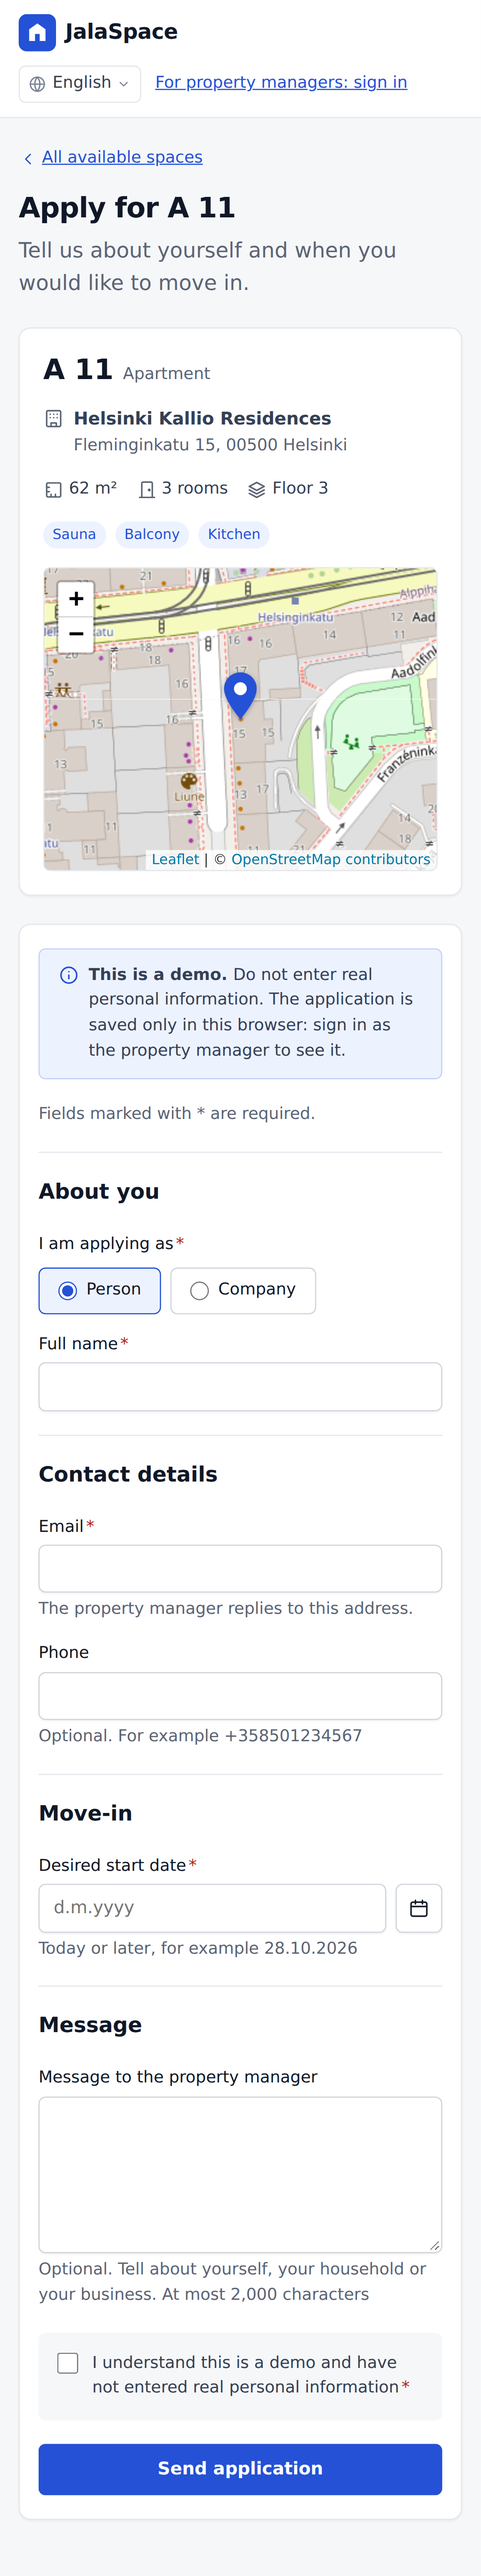
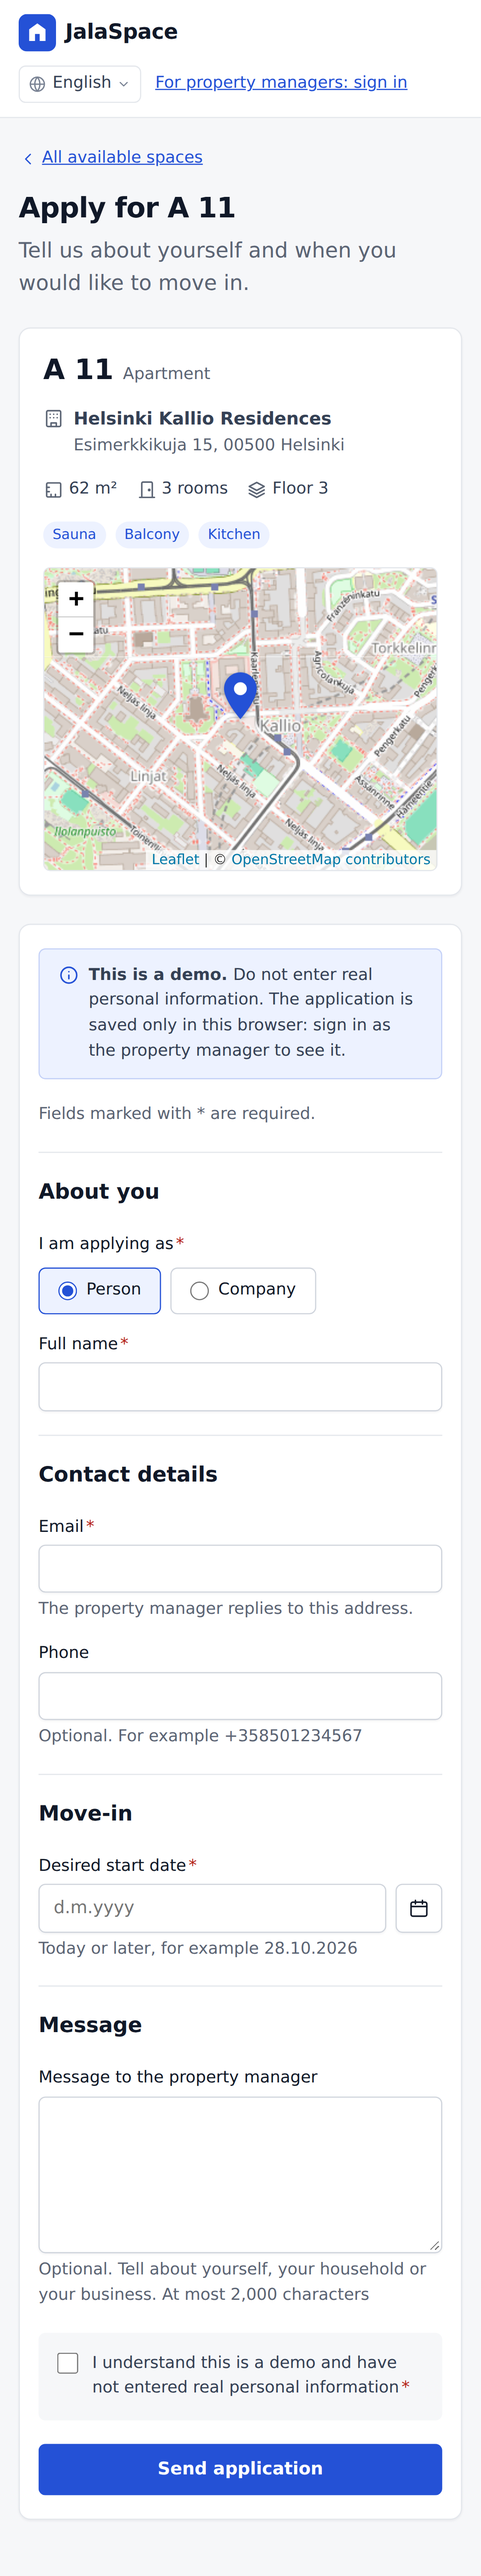
docs(data): state that demo data is fictional and retake screenshots

Changed region(s): [[0.0915, 0.2179, 0.915, 0.3424], [0.488, 0.1556, 0.5795, 0.1868], [0.6405, 0.1556, 0.7015, 0.1868]]

diff --git a/backend/README.md b/backend/README.md
@@ -179,7 +179,7 @@ Editable fields and rules (the same as in the app):
 ```bash
 curl -X POST http://localhost:3000/api/properties \
   -H 'content-type: application/json' \
-  -d '{"name":"Joensuu Center","type":"mixed_use","address":"Siltakatu 12","postalCode":"80100","city":"Joensuu"}'
+  -d '{"name":"Joensuu Center","type":"mixed_use","address":"Esimerkkikatu 12","postalCode":"80100","city":"Joensuu"}'
 ```
 
 A property that still has spaces or maintenance tasks cannot be deleted, so no data is left pointing to it:
@@ -258,7 +258,7 @@ Editable fields and rules (the same as in the app):
 ```bash
 curl -X POST http://localhost:3000/api/tenants \
   -H 'content-type: application/json' \
-  -d '{"type":"company","name":"Lakeside Bakery Oy","contactPerson":"Maija Salo","email":"info@lakeside-bakery.example"}'
+  -d '{"type":"company","name":"Bakery Esimerkki Oy","contactPerson":"Maija Esimerkki","email":"info@bakery-esimerkki.example"}'
 ```
 
 A tenant that still has leases (current, upcoming or past) or approved applications cannot be deleted:
@@ -284,7 +284,7 @@ Fields and rules (the same as in the app):
 ```bash
 curl -X POST http://localhost:3000/api/leases \
   -H 'content-type: application/json' \
-  -d '{"tenantId":"tenant-aurora-yoga","spaceId":"space-kuopio-harbour-10","startDate":"2026-10-01","endDate":null,"monthlyRentCents":125050}'
+  -d '{"tenantId":"tenant-yoga-studio-esimerkki","spaceId":"space-kuopio-harbour-10","startDate":"2026-10-01","endDate":null,"monthlyRentCents":125050}'
 ```
 
 - **Status is derived, not stored:** `upcoming` before the start date, `ended` after the end date, otherwise `active`. Both dates count as days of the lease, and "today" is the server's UTC date.

diff --git a/AGENTS.md b/AGENTS.md
@@ -2139,6 +2139,17 @@ Store money as integer euro cents (for example `monthlyRentCents`) to avoid floa
 Format it as euros only in the presentation layer.
 
 Seed data must follow the same business rules as data entered in the app.
+
+Demo data is fictional: seed data, test fixtures, API examples and UI hints never contain real person or company names, street addresses, phone numbers or emails.
+
+```text
+people          first name + the placeholder surname Esimerkki ("example"), e.g. Aino Esimerkki
+companies       <Descriptor> Esimerkki Oy, e.g. Software Esimerkki Oy
+emails          reserved domains only: …@example.com, …@<name>.example
+phone numbers   +358501234567, +358 50 123 4567 and similar
+addresses       fictional streets (Esimerkkikatu 12) in real cities, with a real postal code of the city
+map locations   a general spot near the city centre, never a specific building
+```
 Tests verify, for example, that a space is occupied exactly when it has an active lease.
 
 Business logic should not be buried inside presentation components.
